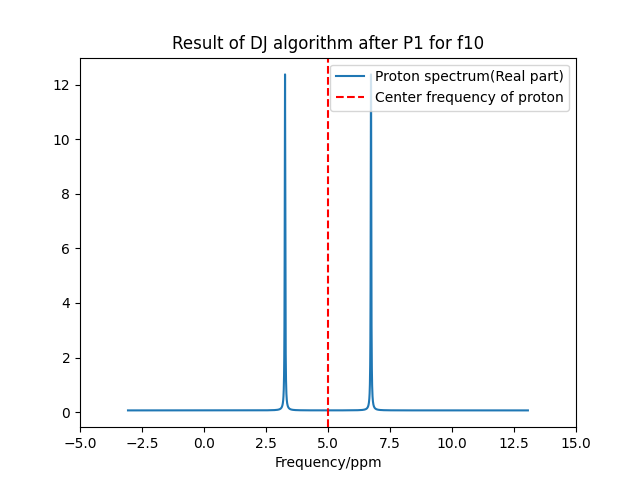
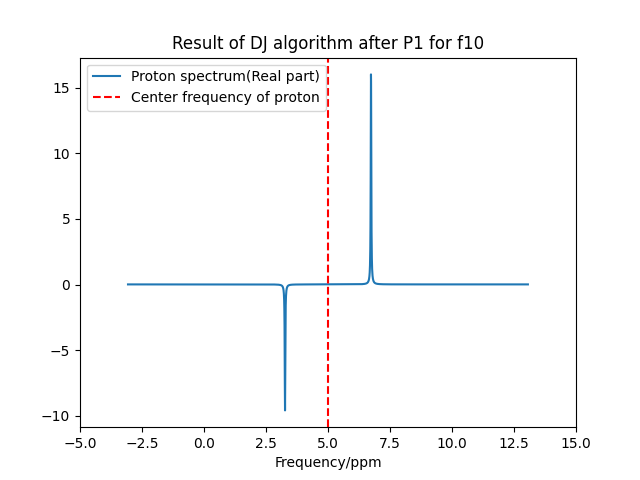
.

diff --git a/Simulator/algorithm.py b/Simulator/algorithm.py
@@ -67,7 +67,7 @@ class NMRalgorithm:
 
     def add_CNOT_pulse(self):
         self.NMRsample.add_pulse(BarrierPulse(name="CNOT(H,C)"))
-        self.NMRsample.add_CNOT_pulse(approximate=True, Hcontrol=True)
+        self.NMRsample.add_CNOT_pulse(approximate=False, Hcontrol=True)
         self.NMRsample.add_pulse(BarrierPulse(name="CNOT(H,C)", endpulse=True))
 
     def plot_measure_all(self):

diff --git a/Simulator/NMRdensity.py b/Simulator/NMRdensity.py
@@ -364,7 +364,7 @@ class chloroform:
         else:
             pass
 
-    def add_CNOT_pulse(self, approximate=True, Hcontrol=True):
+    def add_CNOT_pulse(self, approximate=False, Hcontrol=True):
         if not approximate:
             if Hcontrol:
                 '''
